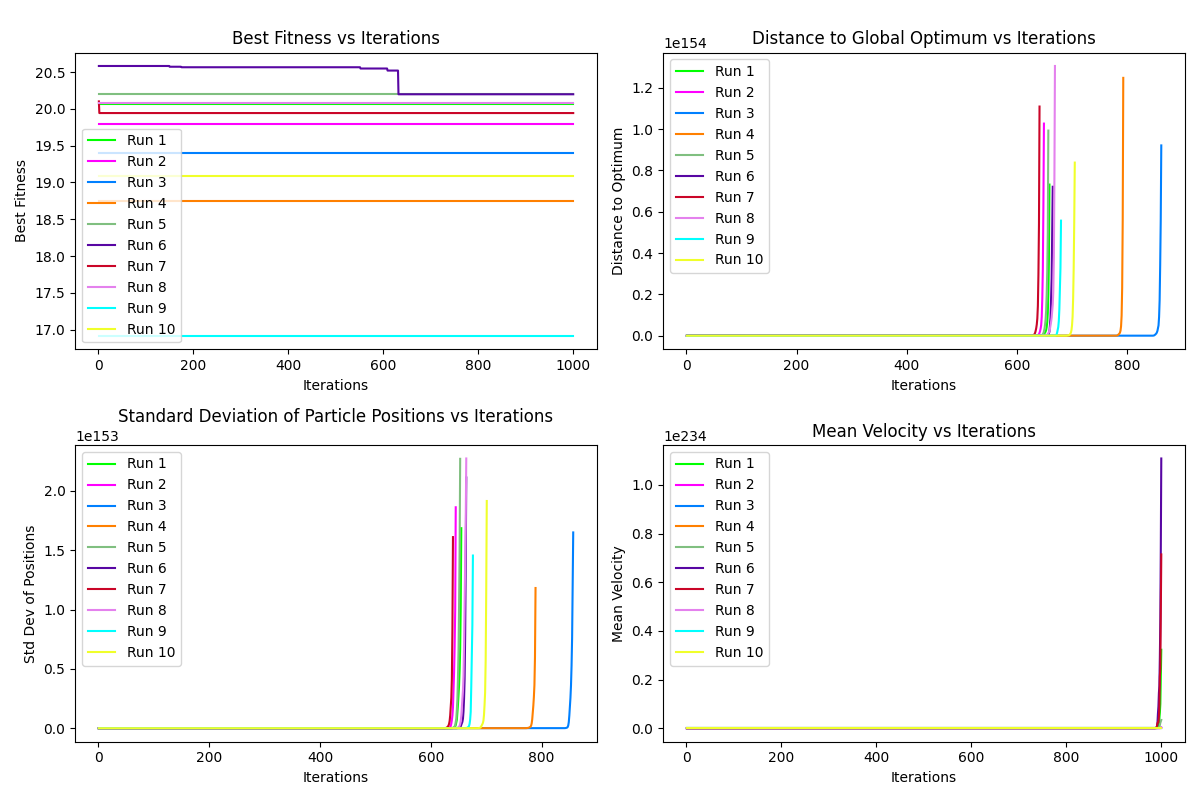
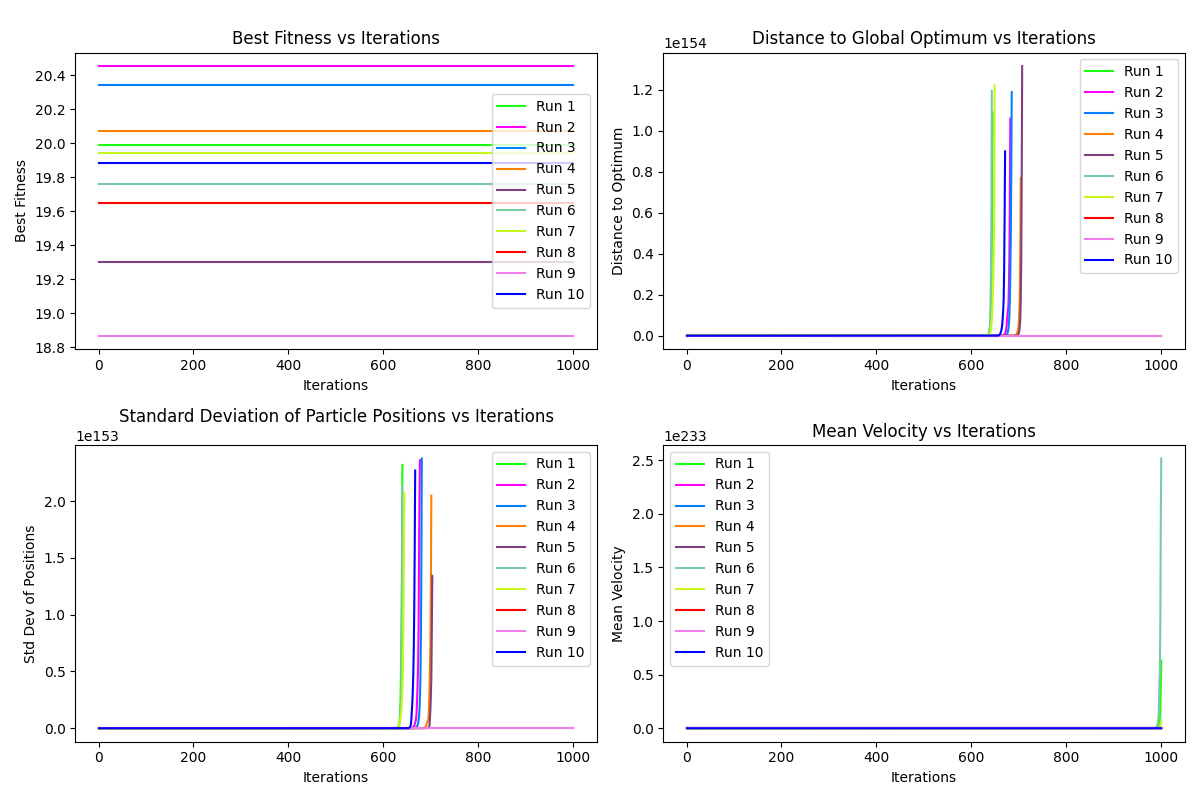
added part 10 graph generation

diff --git a/run_experiments.py b/run_experiments.py
@@ -46,6 +46,7 @@ def run_experiment(swarm_size, num_runs=10, pso_type="standard",topology_type="g
     mv.plot_metrics(all_metrics_data)
 
     plt.savefig("results/" + file_name)
+    plt.close()
 
 
 #run_experiment(5,num_runs=1,file_name="metrics_std_pso.png")
@@ -70,16 +71,38 @@ run_experiment(30,topology_type="star", file_name="metrics_std_pso_topo_star.png
 run_experiment(30,topology_type="rand", file_name="metrics_std_pso_topo_rand.png")
 
 #part10
+#try 20 gbest inertia
+run_experiment(20,topology_type="gbest",pso_type="inertia", file_name="metrics_weight_adjust_pso_topo_gbest_swarm20.png")
+#try 100 gbest inertia
+run_experiment(100,topology_type="gbest",pso_type="inertia", file_name="metrics_weight_adjust_pso_topo_gbest_swarm100.png")
+#try 200 gbest inertia
+run_experiment(200,topology_type="gbest",pso_type="inertia", file_name="metrics_weight_adjust_pso_topo_gbest_swarm200.png")
+#try 200 gbest standard
+run_experiment(200,topology_type="gbest", file_name="metrics_std_pso_topo_gbest_swarm200.png")
+
+#try 20 ring inertia
+run_experiment(20,topology_type="ring",pso_type="inertia", file_name="metrics_weight_adjust_pso_topo_ring_swarm20.png")
 #try 100 ring inertia
 run_experiment(100,topology_type="ring",pso_type="inertia", file_name="metrics_weight_adjust_pso_topo_ring_swarm100.png")
+#try 200 ring inertia
+run_experiment(200,topology_type="ring",pso_type="inertia", file_name="metrics_weight_adjust_pso_topo_ring_swarm200.png")
+#try 200 ring standard
+run_experiment(200,topology_type="ring", file_name="metrics_std_pso_topo_ring_swarm200.png")
 
-#try 200 star standard
-run_experiment(200,topology_type="star", file_name="metrics_std_pso_topo_star_swarm200.png")
 #try 20 star inertia
 run_experiment(20,topology_type="star",pso_type="inertia", file_name="metrics_weight_adjust_pso_topo_star_swarm20.png")
+#try 100 star inertia
+run_experiment(100,topology_type="star",pso_type="inertia", file_name="metrics_weight_adjust_pso_topo_star_swarm20.png")
+#try 200 star inertia
+run_experiment(200,topology_type="star",pso_type="inertia", file_name="metrics_weight_adjust_pso_topo_star_swarm200.png")
+#try 200 star standard
+run_experiment(200,topology_type="star", file_name="metrics_std_pso_topo_star_swarm200.png")
+
+#try 20 rand inertia
+run_experiment(20,topology_type="rand",pso_type="inertia", file_name="metrics_weight_adjiust_pso_topo_rand_swarm20.png")
+#try 100 rand inertia
+run_experiment(100,topology_type="rand",pso_type="inertia", file_name="metrics_weight_adjiust_pso_topo_rand_swarm100.png")
 #try 200 rand inertia
-run_experiment(200,topology_type="rand",pso_type="inertia", file_name="metrics_weight_adjust_pso_topo_rand_swarm200.png")
-#try 20 rand standard
-run_experiment(20,topology_type="rand", file_name="metrics_std_pso_topo_rand_swarm20.png")
-#try 20 ring standard
-run_experiment(20,topology_type="ring", file_name="metrics_std_pso_topo_ring_swarm20.png")
+run_experiment(200,topology_type="rand",pso_type="inertia", file_name="metrics_weight_adjiust_pso_topo_rand_swarm200.png")
+#try 200 rand standard
+run_experiment(200,topology_type="rand", file_name="metrics_std_pso_topo_rand_swarm200.png")
